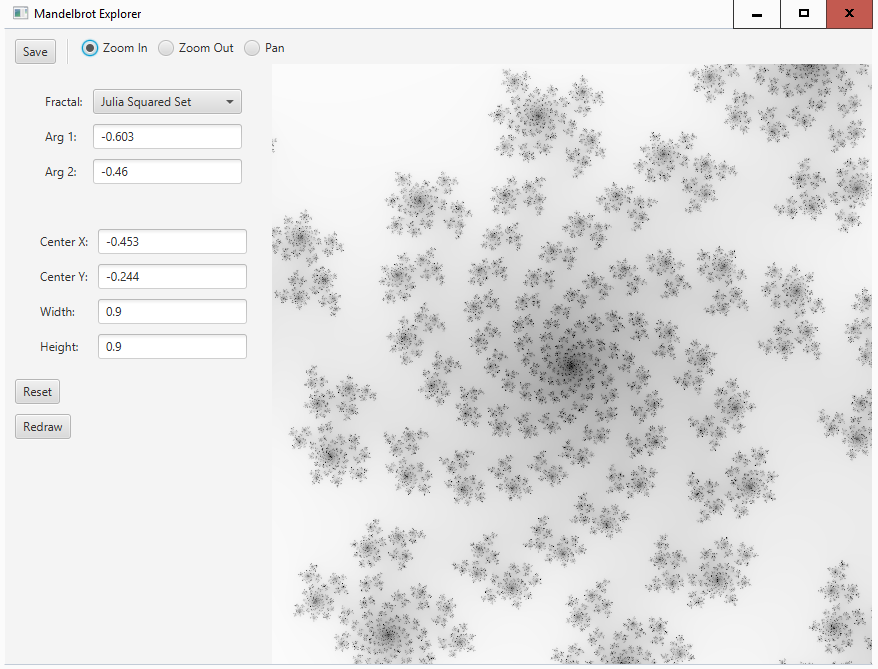
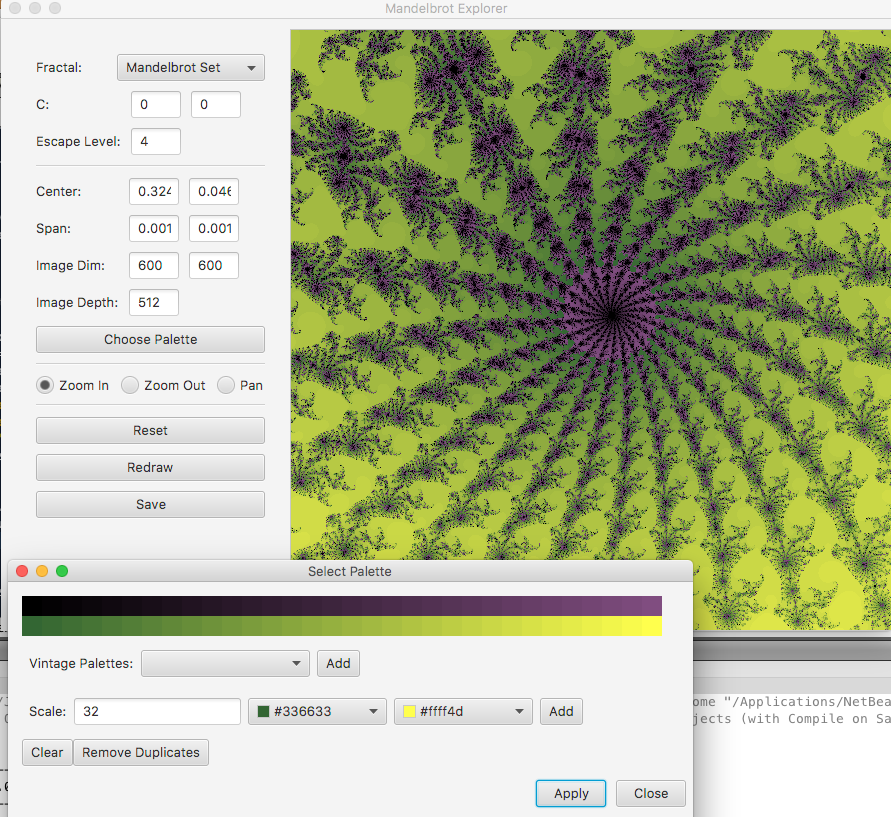
added color capability

diff --git a/src/main/resources/fxml/chooserStyles.css b/src/main/resources/fxml/chooserStyles.css
@@ -1,0 +1,19 @@
+/*
+ * Empty Stylesheet file.
+ */
+
+.mainFxmlClass {
+   -fx-spacing: 5pt;
+   -fx-padding: 5pt;
+}
+
+.mainFxmlClass HBox {
+   -fx-spacing: 5pt;
+   -fx-padding: 5pt;
+   -fx-alignment: CENTER_LEFT;   
+}
+
+Rectangle.colorChoice {
+   /* -fx-arc-height: 5; */
+   /* -fx-arc-width: 5;  */
+}

diff --git a/src/main/java/rwt/mandelbrot/FractalArtist.java b/src/main/java/rwt/mandelbrot/FractalArtist.java
@@ -35,12 +35,12 @@ final class FractalArtist implements AutoCloseable {
     final IntegerProperty imgWid;
     final IntegerProperty imgHt;
     final ObjectProperty<Image> image;
-    
+    final ObjectProperty<Color[]> palette;
+
     private final int numThreads;
     
     private final ExecutorService threadpool;
     private final List<Future<?>> futures;
-    private final Color[] palette;
   
     private final AlgorithmSelector selector;
    
@@ -57,10 +57,11 @@ final class FractalArtist implements AutoCloseable {
         numThreads = Runtime.getRuntime().availableProcessors();
         futures = new ArrayList<>();
         threadpool = Executors.newFixedThreadPool(numThreads);
-        palette = new Color[256];
+        final Color[] defPalette = new Color[256];
         for(int idx = 0; idx < 256; ++idx) {
-            palette[idx] = Color.grayRgb(idx);
+            defPalette[idx] = Color.grayRgb(idx);
         }    
+        palette = new SimpleObjectProperty<>(defPalette);
     }
     
     @Override
@@ -107,12 +108,12 @@ final class FractalArtist implements AutoCloseable {
                                 final double ULY, final double expY, 
                                 final int wid, final int ht, final int startY, final int endY,
                                 final PixelWriter pw, final PixelSupplier ps) {
-        
+        final Color[] pal = palette.get();
         for(int y = startY; y < endY; ++y) {
             final double ylevel = ULY - (y/(double)ht)*expY;
             for(int x = 0; x < wid; ++x) {
                 int c = ps.colorPixel(ULX + (x/(double)wid)*expX, ylevel);
-                pw.setColor(x, y, palette[c]);
+                pw.setColor(x, y, pal[c]);
             }
         }
     }
@@ -132,7 +133,8 @@ final class FractalArtist implements AutoCloseable {
         final int wid = imgWid.get(); 
         final int ht = imgHt.get(); 
         final PixelSupplier supplier = selector.getSupplier();
-
+        supplier.setColorDepth(palette.get().length);
+        
         final WritableImage newimage = new WritableImage(wid, ht);
         final PixelWriter pw = newimage.getPixelWriter();
          

diff --git a/src/main/java/rwt/mandelbrot/MainSceneController.java b/src/main/java/rwt/mandelbrot/MainSceneController.java
@@ -11,7 +11,10 @@ import java.util.ResourceBundle;
 import javafx.beans.binding.Bindings;
 import javafx.event.ActionEvent;
 import javafx.fxml.FXML;
+import javafx.fxml.FXMLLoader;
 import javafx.fxml.Initializable;
+import javafx.scene.Parent;
+import javafx.scene.Scene;
 import javafx.scene.control.RadioButton;
 import javafx.scene.control.TextField;
 import javafx.scene.image.Image;
@@ -19,6 +22,8 @@ import javafx.scene.image.ImageView;
 import javafx.scene.input.MouseEvent;
 import javafx.stage.FileChooser;
 import javafx.stage.FileChooser.ExtensionFilter;
+import javafx.stage.Stage;
+import javafx.stage.StageStyle;
 import javafx.util.converter.NumberStringConverter;
 
 /**
@@ -59,6 +64,7 @@ public class MainSceneController implements Initializable, AutoCloseable {
     private javafx.scene.control.TextField arg2;
     @FXML
     private javafx.scene.control.TextField escVal;
+    
     
     @FXML
     private void onReset(ActionEvent event) {
@@ -104,7 +110,23 @@ public class MainSceneController implements Initializable, AutoCloseable {
         artist.drawScene();
     }
             
-    
+    @FXML
+    private void onPalette(ActionEvent ae) {
+        try {
+           FXMLLoader loader = new FXMLLoader(getClass().getResource("/fxml/PaletteBuilder.fxml"));
+           Parent root = loader.load();
+           PaletteBuilderController pbc = loader.getController();
+           pbc.tieToParent((Stage)arg1.getScene().getWindow(), artist.palette);
+           Scene sc = new Scene(root);
+           Stage st = new Stage(StageStyle.DECORATED);
+           st.setTitle("Select Palette");
+           st.setScene(sc);
+           st.show();
+           
+        } catch(java.io.IOException ex) {
+            throw new RuntimeException(ex);
+        }
+    }
     
     private FractalArtist artist;
     
@@ -131,6 +153,8 @@ public class MainSceneController implements Initializable, AutoCloseable {
         artist.drawScene();
     }    
 
+    
+    
     @Override
     public void close() throws Exception {
         artist.close();

diff --git a/src/main/java/rwt/mandelbrot/PaletteBuilderController.java b/src/main/java/rwt/mandelbrot/PaletteBuilderController.java
@@ -1,0 +1,55 @@
+/*
+ * Copyright Richard Todd. I put the code under the
+ * GPL v2.0.  See the LICENSE file in the repository.
+ * for more information.
+ */
+package rwt.mandelbrot;
+
+import com.waywardcode.palette.PaletteDesigner;
+import java.net.URL;
+import java.util.Optional;
+import java.util.ResourceBundle;
+import javafx.beans.property.ObjectProperty;
+import javafx.event.ActionEvent;
+import javafx.fxml.Initializable;
+import javafx.fxml.*;
+import javafx.scene.paint.Color;
+import javafx.stage.Stage;
+
+
+/**
+ * FXML Controller class
+ *
+ * @author richard Todd
+ */
+public class PaletteBuilderController implements Initializable {
+
+    @FXML private PaletteDesigner designer;
+    
+    private Stage myStage;
+    private ObjectProperty<Color[]> fromParent;
+
+    /**
+     * Initializes the controller class.
+     */
+    @Override
+    public void initialize(URL url, ResourceBundle rb) {
+        // nothing to do at the moment.
+    }        
+    
+    public void tieToParent(Stage whereIAm, ObjectProperty<Color[]> tgt) {
+        myStage = whereIAm;
+        fromParent = tgt;
+        designer.setPalette(Optional.empty(), tgt.get());
+    }
+    
+    @FXML private void btnApply(ActionEvent ae) {
+        fromParent.set(designer.getPaletteColors());
+    }
+    
+    @FXML private void btnClose(ActionEvent ae) {
+        btnApply(ae);
+        myStage.close();
+    }
+
+}

diff --git a/src/main/java/rwt/mandelbrot/algo/JuliaSquaredSet.java b/src/main/java/rwt/mandelbrot/algo/JuliaSquaredSet.java
@@ -12,12 +12,11 @@ import rwt.mandelbrot.PixelSupplier;
  * accumulator and adds a constant.  x^2 + c
  * @author Richard Todd
  */
-public final class JuliaSquaredSet implements PixelSupplier {
+public final class JuliaSquaredSet extends SimpleAlgo {
     final double addX;
     final double addY;
     final int depth;
-    final double escape;
-    
+    final double escape;        
     
     public JuliaSquaredSet(double xloc, double yloc, int d, double e) {
         addX = xloc;
@@ -26,6 +25,7 @@ public final class JuliaSquaredSet implements PixelSupplier {
         depth = d;
         escape = e;
     }
+ 
     
     @Override
     public int colorPixel(final double x, final double y) {
@@ -39,9 +39,9 @@ public final class JuliaSquaredSet implements PixelSupplier {
           --answer; 
        }
        
-       // scale answer to the 0 - 255 range...
-       answer = (int)(256.0 * answer / depth);
-       if(answer > 255) answer = 255;
+       // scale answer to the 0 - paletteSize range...
+       answer = (int)((double)paletteSize * answer / depth);
+       if(answer >= paletteSize) answer = (paletteSize-1);
 
        return answer; 
     }

diff --git a/src/main/java/rwt/mandelbrot/algo/JuliaExpSet.java b/src/main/java/rwt/mandelbrot/algo/JuliaExpSet.java
@@ -5,13 +5,12 @@
  */
 package rwt.mandelbrot.algo;
 
-import rwt.mandelbrot.PixelSupplier;
 
 /**
  *
  * @author richa
  */
-public final class JuliaExpSet implements PixelSupplier  {
+public final class JuliaExpSet extends SimpleAlgo  {
     final double addX;
     final double addY;
     final int depth;
@@ -25,6 +24,8 @@ public final class JuliaExpSet implements PixelSupplier  {
         escape = e;
     }
     
+
+    
     @Override
     public int colorPixel(final double x, final double y) {
        int answer = depth - 1;
@@ -37,9 +38,10 @@ public final class JuliaExpSet implements PixelSupplier  {
           --answer; 
        }
        
-       // scale answer to the 0 - 255 range...
-       answer = (int)(256.0 * answer / depth);
-       if(answer > 255) answer = 255;
+       // scale answer to the 0 - paletteSize range...
+       answer = (int)((double)paletteSize * answer / depth);
+       if(answer >= paletteSize) answer = (paletteSize-1);
+
        
        return answer; 
     }

diff --git a/src/main/java/rwt/mandelbrot/algo/MandelbrotSet.java b/src/main/java/rwt/mandelbrot/algo/MandelbrotSet.java
@@ -5,13 +5,11 @@
  */
 package rwt.mandelbrot.algo;
 
-import rwt.mandelbrot.PixelSupplier;
-
 /**
  * Implements the standard mandelbrot set:  x^2 + location.
  * @author Richard Todd
  */
-public final class MandelbrotSet implements PixelSupplier {
+public final class MandelbrotSet extends SimpleAlgo {
     private final int depth;
     private final double escape;
     
@@ -26,9 +24,10 @@ public final class MandelbrotSet implements PixelSupplier {
           cy = tmp+tmp + y;
           --answer; 
        }
-       // scale answer to the 0 - 255 range...
-       answer = (int)(256.0 * answer / depth);
-       if(answer > 255) answer = 255;
+       
+       // scale answer to the 0 - paletteSize range...
+       answer = (int)((double)paletteSize * answer / depth);
+       if(answer >= paletteSize) answer = (paletteSize-1);
        
        return answer; 
     }

diff --git a/src/main/java/rwt/mandelbrot/algo/JuliaZExpSet.java b/src/main/java/rwt/mandelbrot/algo/JuliaZExpSet.java
@@ -5,13 +5,11 @@
  */
 package rwt.mandelbrot.algo;
 
-import rwt.mandelbrot.PixelSupplier;
-
 /**
  * Z * e^Z + C  Julia ZExp set
  * @author richa
  */
-public final class JuliaZExpSet implements PixelSupplier  {
+public final class JuliaZExpSet extends SimpleAlgo {
     final double addX;
     final double addY;
     final int depth;
@@ -42,10 +40,10 @@ public final class JuliaZExpSet implements PixelSupplier  {
           --answer; 
        }
        
-       // scale answer to the 0 - 255 range...
-       answer = (int)(256.0 * answer / depth);
-       if(answer > 255) answer = 255;
-       
+       // scale answer to the 0 - paletteSize range...
+       answer = (int)((double)paletteSize * answer / depth);
+       if(answer >= paletteSize) answer = (paletteSize-1);
+
        return answer; 
     }
 

diff --git a/src/main/java/rwt/mandelbrot/algo/SimpleAlgo.java b/src/main/java/rwt/mandelbrot/algo/SimpleAlgo.java
@@ -1,0 +1,23 @@
+/*
+ * To change this license header, choose License Headers in Project Properties.
+ * To change this template file, choose Tools | Templates
+ * and open the template in the editor.
+ */
+package rwt.mandelbrot.algo;
+
+import rwt.mandelbrot.PixelSupplier;
+
+/**
+ * A base class to help with implementations of PixelSupplier
+ * @author rtodd
+ */
+public abstract class SimpleAlgo implements PixelSupplier {
+    
+    protected int paletteSize;
+    
+    @Override
+    public void setColorDepth(int d) {
+        paletteSize = d;
+    }
+    
+}

diff --git a/src/main/java/rwt/mandelbrot/AlgorithmSelector.java b/src/main/java/rwt/mandelbrot/AlgorithmSelector.java
@@ -10,9 +10,11 @@ import javafx.beans.Observable;
 import javafx.beans.property.StringProperty;
 import javafx.beans.property.DoubleProperty;
 import javafx.beans.property.IntegerProperty;
+import javafx.beans.property.ObjectProperty;
 import javafx.beans.property.SimpleDoubleProperty;
 import javafx.beans.property.SimpleIntegerProperty;
 import javafx.beans.property.SimpleStringProperty;
+import javafx.scene.paint.Color;
 
 /**
  * FXML Controller class for the Select Fractal Dialog

diff --git a/src/main/java/rwt/mandelbrot/PixelSupplier.java b/src/main/java/rwt/mandelbrot/PixelSupplier.java
@@ -9,7 +9,7 @@ package rwt.mandelbrot;
  *
  * @author richa
  */
-@FunctionalInterface
 public interface PixelSupplier {
     int colorPixel(final double x, final double y);
+    void setColorDepth(int d);
 }

diff --git a/readme.md b/readme.md
@@ -6,10 +6,17 @@ fractals and see their effects visually.
 
 ![screenshot](Capture.PNG)
 
-The radio buttons at the top select whether your clicks in the 
+The radio buttons select whether your clicks in the 
 picture area will zoom in, zoom out, or simply pan the image.
 You can also directly change the location and scale in the
 text fields on the left.
 
+![screenshot 2](mandel_color.gif)
+
 The rendering happens across a 4-thread pool for speed.
+
+Update: 10-03-2016 ... added color via the [jfx-palette-designer][1]
+I created.
+
+[1]: https://github.com/rwtodd/jfx-palette-designer
 
